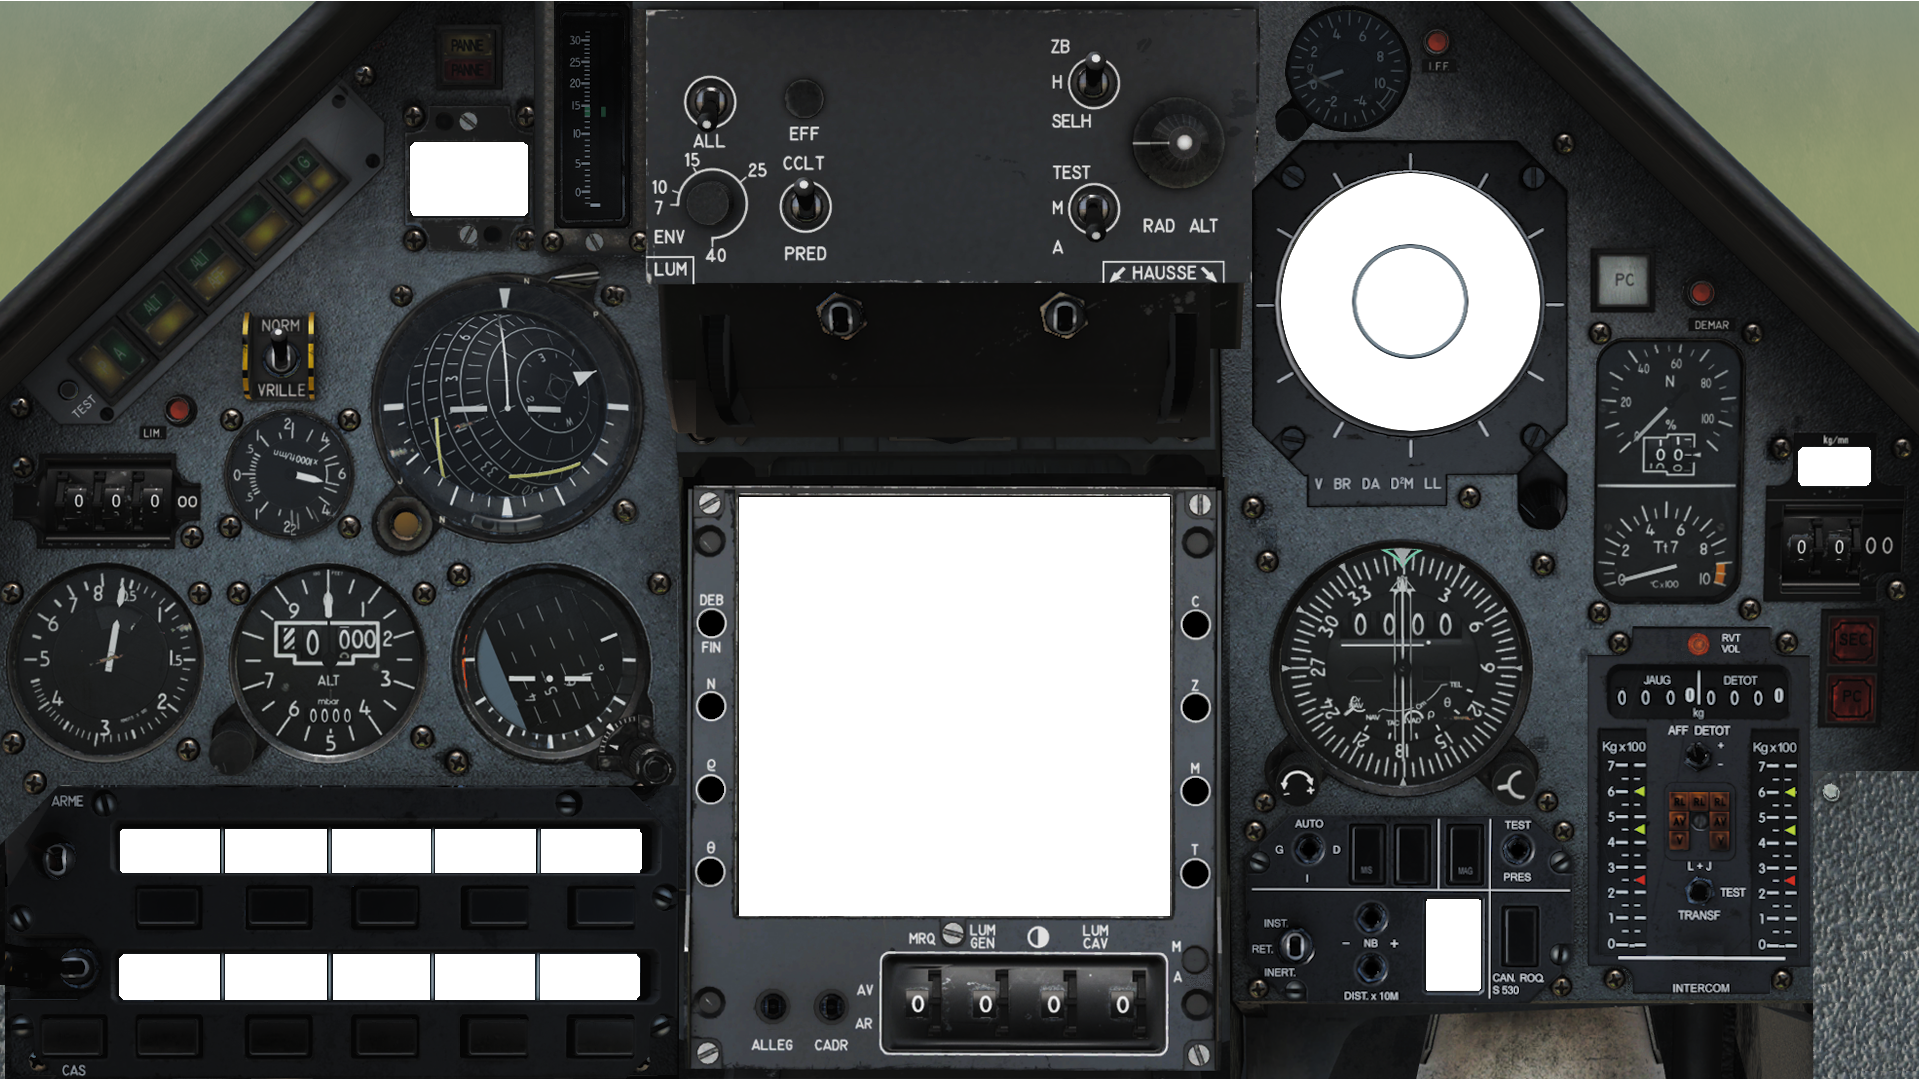
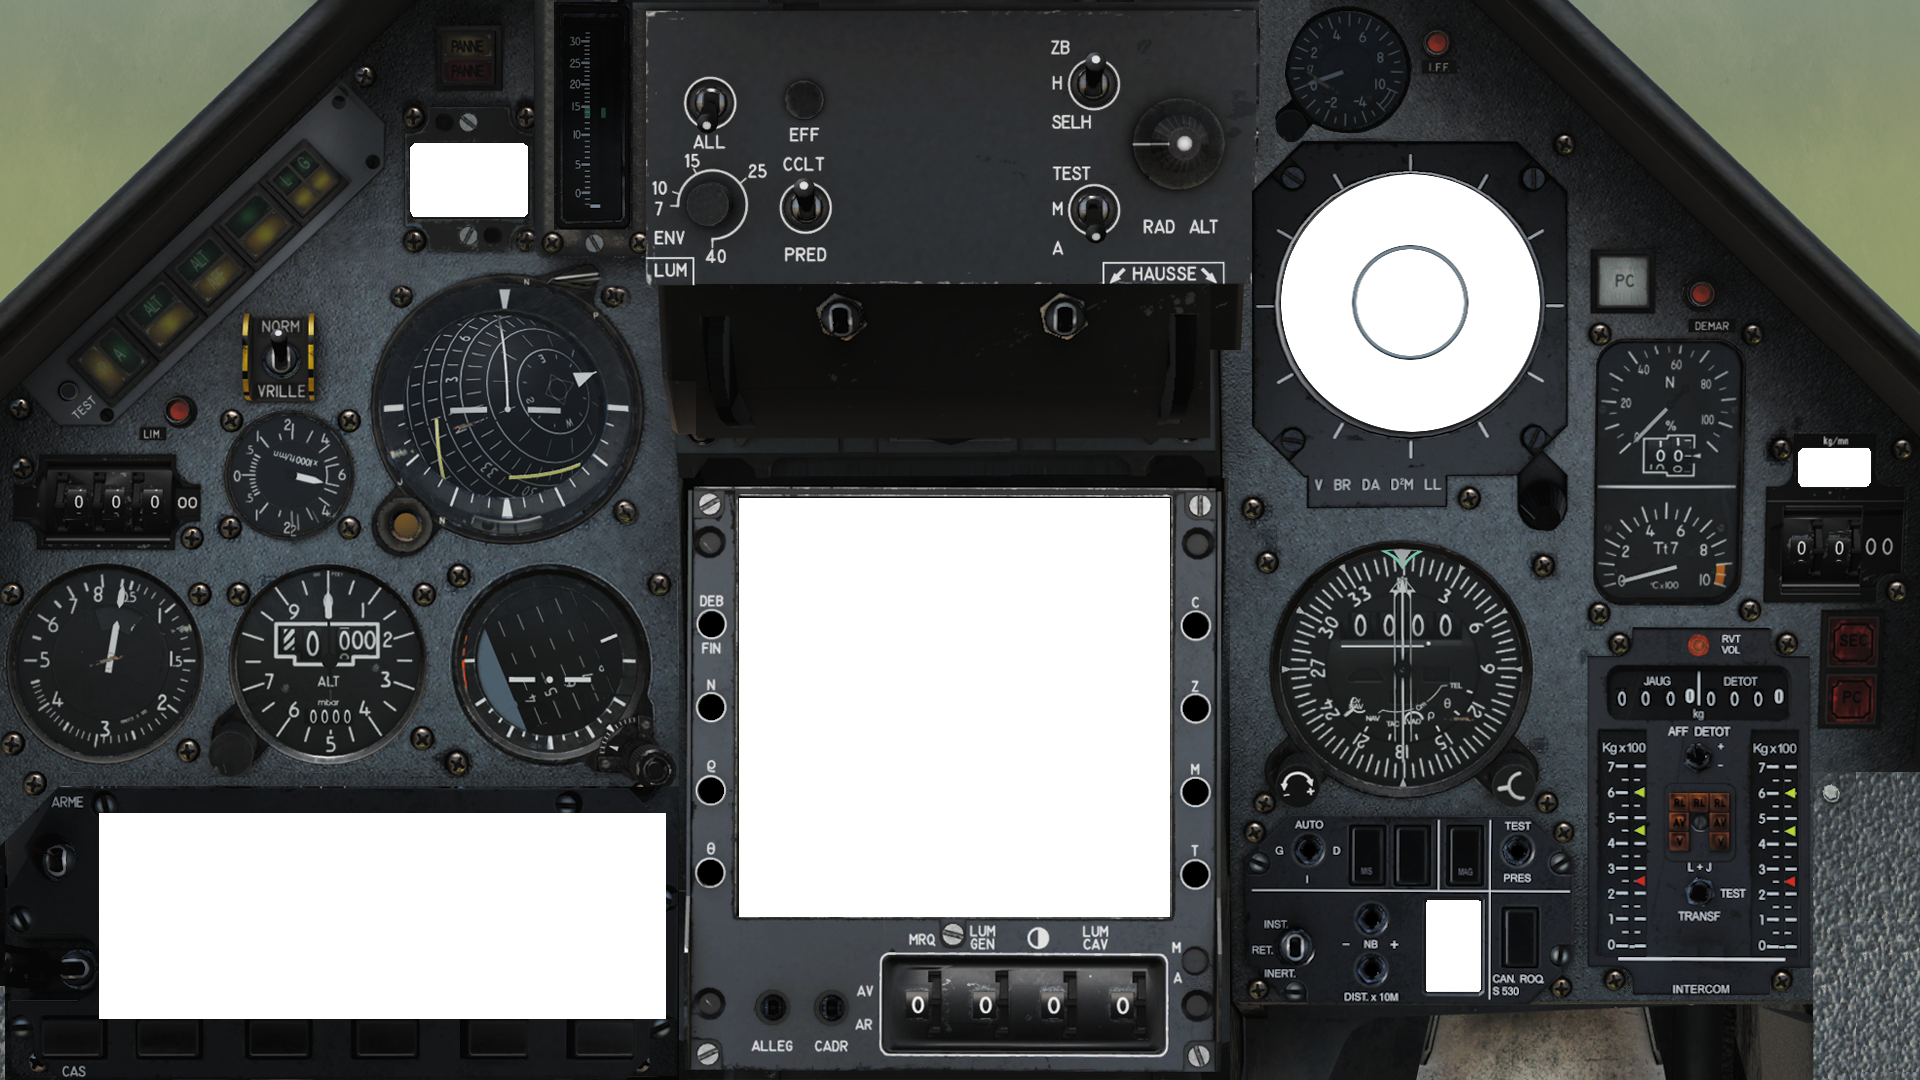
Added the PCA Panel

diff --git a/Helios/Interfaces/DCS/M2000C/M2000CInterface.cs b/Helios/Interfaces/DCS/M2000C/M2000CInterface.cs
@@ -209,23 +209,6 @@ namespace GadrocsWorkshop.Helios.Interfaces.DCS.M2000C
             AddFunction(new FlagValue(this, "186", "Indicators", "Indicators 186", "IFF, MIP, Acc"));
             AddFunction(new FlagValue(this, "187", "Indicators", "Indicators 187", "LED green, ADI"));
             AddFunction(new FlagValue(this, "188", "Indicators", "Indicators 188", "LED green, ADI"));
-            AddFunction(new FlagValue(this, "236", "Indicators", "Indicators 236", "Weapon panel 1. line B1 S"));
-            AddFunction(new FlagValue(this, "238", "Indicators", "Indicators 238", "Weapon panel 1. line B2 S"));
-            AddFunction(new FlagValue(this, "240", "Indicators", "Indicators 240", "Weapon panel 1. line B3 S"));
-            AddFunction(new FlagValue(this, "242", "Indicators", "Indicators 242", "Weapon panel 1. line B4 S"));
-            AddFunction(new FlagValue(this, "244", "Indicators", "Indicators 244", "Weapon panel 1. line B5 S"));
-            AddFunction(new FlagValue(this, "251", "Indicators", "Indicators 251", "Weapon panel 2. line B1 S"));
-            AddFunction(new FlagValue(this, "252", "Indicators", "Indicators 252", "Weapon panel 2. line B1 P"));
-            AddFunction(new FlagValue(this, "254", "Indicators", "Indicators 254", "Weapon panel 2. line B2 S"));
-            AddFunction(new FlagValue(this, "255", "Indicators", "Indicators 255", "Weapon panel 2. line B2 P"));
-            AddFunction(new FlagValue(this, "257", "Indicators", "Indicators 257", "Weapon panel 2. line B3 S"));
-            AddFunction(new FlagValue(this, "258", "Indicators", "Indicators 258", "Weapon panel 2. line B3 P"));
-            AddFunction(new FlagValue(this, "260", "Indicators", "Indicators 260", "Weapon panel 2. line B4 S"));
-            AddFunction(new FlagValue(this, "261", "Indicators", "Indicators 261", "Weapon panel 2. line B4 P"));
-            AddFunction(new FlagValue(this, "263", "Indicators", "Indicators 263", "Weapon panel 2. line B5 S"));
-            AddFunction(new FlagValue(this, "264", "Indicators", "Indicators 264", "Weapon panel 2. line B5 P"));
-            AddFunction(new FlagValue(this, "246", "Indicators", "Indicators 246", "button KL1 light"));
-            AddFunction(new FlagValue(this, "247", "Indicators", "Indicators 247", "button KL2 light"));
             AddFunction(new FlagValue(this, "321", "Indicators", "Indicators 321", "ADI ILS light"));
             AddFunction(new FlagValue(this, "283", "Indicators", "Indicators 283", "AUTOPILOT P"));
             AddFunction(new FlagValue(this, "284", "Indicators", "Indicators 284", "AUTOPILOT A"));
@@ -369,24 +352,48 @@ namespace GadrocsWorkshop.Helios.Interfaces.DCS.M2000C
 
             #endregion
             #region  PCA/PPA
-            AddFunction(new PushButton(this, PCA_PPA, "3234", "234", "PCA/PPA", "Master Arm Switch"));    // elements["PTN_234"] = default_2_position_tumb(_("Master Arm Switch"), devices.PCA_PPA, device_commands.Button_234, 234)
-            AddFunction(new PushButton(this, PCA_PPA, "3248", "248", "PCA/PPA", "Selective Jettison Switch Cover"));    // elements["PTN_248"] = default_2_position_tumb(_("Selective Jettison Switch Cover"), devices.PCA_PPA, device_commands.Button_248, 248)
-            AddFunction(new PushButton(this, PCA_PPA, "3249", "249", "PCA/PPA", "Selective Jettison Switch"));    // elements["PTN_249"] = default_2_position_tumb(_("Selective Jettison Switch"), devices.PCA_PPA, device_commands.Button_249, 249)
+            AddFunction(new Switch(this, PCA_PPA, "234", new SwitchPosition[] {
+                new SwitchPosition("0.0", "OFF", "3234"), new SwitchPosition("1.0", "ON", "3234")
+                }, "PCA Panel", "Master Arm Switch", "%0.1f"));
+            AddFunction(new Switch(this, PCA_PPA, "248", new SwitchPosition[] {
+                new SwitchPosition("0.0", "CLOSE", "3248"), new SwitchPosition("1.0", "OPEN", "3248")
+                }, "PCA Panel", "Selective Jettison Switch Guard", "%0.1f"));
+            AddFunction(new Switch(this, PCA_PPA, "249", new SwitchPosition[] {
+                new SwitchPosition("1.0", "OFF", "3249"), new SwitchPosition("0.0", "ON", "3249")
+                }, "PCA Panel", "Selective Jettison Switch", "%0.1f"));
                                                                                                                   // 
-            AddFunction(new PushButton(this, PCA_PPA, "3235", "235", "PCA/PPA", "PCA Button 1"));    // elements["PTN_235"] = default_button(_("PCA Button 1"), devices.PCA_PPA, device_commands.Button_235, 235, 0, 1)
-            AddFunction(new PushButton(this, PCA_PPA, "3237", "237", "PCA/PPA", "PCA Button 2"));    // elements["PTN_237"] = default_button(_("PCA Button 2"), devices.PCA_PPA, device_commands.Button_237, 237, 0, 1)
-            AddFunction(new PushButton(this, PCA_PPA, "3239", "239", "PCA/PPA", "PCA Button 3"));    // elements["PTN_239"] = default_button(_("PCA Button 3"), devices.PCA_PPA, device_commands.Button_239, 239, 0, 1)
-            AddFunction(new PushButton(this, PCA_PPA, "3241", "241", "PCA/PPA", "PCA Button 4"));    // elements["PTN_241"] = default_button(_("PCA Button 4"), devices.PCA_PPA, device_commands.Button_241, 241, 0, 1)
-            AddFunction(new PushButton(this, PCA_PPA, "3243", "243", "PCA/PPA", "PCA Button 5"));    // elements["PTN_243"] = default_button(_("PCA Button 5"), devices.PCA_PPA, device_commands.Button_243, 243, 0, 1)
+            AddFunction(new PushButton(this, PCA_PPA, "3235", "235", "PCA Panel", "Targeting Mode Selection"));    // elements["PTN_235"] = default_button(_("PCA Button 1"), devices.PCA_PPA, device_commands.Button_235, 235, 0, 1)
+            AddFunction(new PushButton(this, PCA_PPA, "3237", "237", "PCA Panel", "Master Mode Selection"));    // elements["PTN_237"] = default_button(_("PCA Button 2"), devices.PCA_PPA, device_commands.Button_237, 237, 0, 1)
+            AddFunction(new PushButton(this, PCA_PPA, "3239", "239", "PCA Panel", "Approach Mode Selection"));    // elements["PTN_239"] = default_button(_("PCA Button 3"), devices.PCA_PPA, device_commands.Button_239, 239, 0, 1)
+            AddFunction(new PushButton(this, PCA_PPA, "3241", "241", "PCA Panel", "Fligt Plan Route Selection"));    // elements["PTN_241"] = default_button(_("PCA Button 4"), devices.PCA_PPA, device_commands.Button_241, 241, 0, 1)
+            AddFunction(new PushButton(this, PCA_PPA, "3243", "243", "PCA Panel", "INS Calibration"));    // elements["PTN_243"] = default_button(_("PCA Button 5"), devices.PCA_PPA, device_commands.Button_243, 243, 0, 1)
                                                                                                      // 
-            AddFunction(new PushButton(this, PCA_PPA, "3245", "245", "PCA/PPA", "Gun Mode Button"));    // elements["PTN_245"] = default_button(_("Gun Mode Button"), devices.PCA_PPA, device_commands.Button_245, 245, 0, 1)
+            AddFunction(new PushButton(this, PCA_PPA, "3245", "245", "PCA Panel", "Gun Mode Selector"));    // elements["PTN_245"] = default_button(_("Gun Mode Button"), devices.PCA_PPA, device_commands.Button_245, 245, 0, 1)
                                                                                                         // 
-            AddFunction(new PushButton(this, PCA_PPA, "3250", "250", "PCA/PPA", "Weapons Selector Button 1"));    // elements["PTN_250"] = default_button(_("Weapons Selector Button 1"), devices.PCA_PPA, device_commands.Button_250, 250, 0, 1)
-            AddFunction(new PushButton(this, PCA_PPA, "3253", "253", "PCA/PPA", "Weapons Selector Button 2"));    // elements["PTN_253"] = default_button(_("Weapons Selector Button 2"), devices.PCA_PPA, device_commands.Button_253, 253, 0, 1)
-            AddFunction(new PushButton(this, PCA_PPA, "3256", "256", "PCA/PPA", "Weapons Selector Button 3"));    // elements["PTN_256"] = default_button(_("Weapons Selector Button 3"), devices.PCA_PPA, device_commands.Button_256, 256, 0, 1)
-            AddFunction(new PushButton(this, PCA_PPA, "3259", "259", "PCA/PPA", "Weapons Selector Button 4"));    // elements["PTN_259"] = default_button(_("Weapons Selector Button 4"), devices.PCA_PPA, device_commands.Button_259, 259, 0, 1)
-            AddFunction(new PushButton(this, PCA_PPA, "3262", "262", "PCA/PPA", "Weapons Selector Button 5"));    // elements["PTN_262"] = default_button(_("Weapons Selector Button 5"), devices.PCA_PPA, device_commands.Button_262, 262, 0, 1)
-                                                                                                                  // 
+            AddFunction(new PushButton(this, PCA_PPA, "3250", "250", "PCA Panel", "Weapon Store Selector 1"));    // elements["PTN_250"] = default_button(_("Weapons Selector Button 1"), devices.PCA_PPA, device_commands.Button_250, 250, 0, 1)
+            AddFunction(new PushButton(this, PCA_PPA, "3253", "253", "PCA Panel", "Weapon Store Selector 2"));    // elements["PTN_253"] = default_button(_("Weapons Selector Button 2"), devices.PCA_PPA, device_commands.Button_253, 253, 0, 1)
+            AddFunction(new PushButton(this, PCA_PPA, "3256", "256", "PCA Panel", "Weapon Store Selector 3"));    // elements["PTN_256"] = default_button(_("Weapons Selector Button 3"), devices.PCA_PPA, device_commands.Button_256, 256, 0, 1)
+            AddFunction(new PushButton(this, PCA_PPA, "3259", "259", "PCA Panel", "Weapon Store Selector 4"));    // elements["PTN_259"] = default_button(_("Weapons Selector Button 4"), devices.PCA_PPA, device_commands.Button_259, 259, 0, 1)
+            AddFunction(new PushButton(this, PCA_PPA, "3262", "262", "PCA Panel", "Weapon Store Selector 5"));    // elements["PTN_262"] = default_button(_("Weapons Selector Button 5"), devices.PCA_PPA, device_commands.Button_262, 262, 0, 1)
+
+            AddFunction(new FlagValue(this, "236", "PCA Panel", "TMS S", "TMS S"));
+            AddFunction(new FlagValue(this, "238", "PCA Panel", "MMS", "MMS"));
+            AddFunction(new FlagValue(this, "240", "PCA Panel", "AMS", "AMS"));
+            AddFunction(new FlagValue(this, "242", "PCA Panel", "FPRS", "FPRS"));
+            AddFunction(new FlagValue(this, "244", "PCA Panel", "INS C", "INS C"));
+            AddFunction(new FlagValue(this, "251", "PCA Panel", "WSS1 S", "WSS1 S"));
+            AddFunction(new FlagValue(this, "252", "PCA Panel", "WSS1 P", "WSS1 P"));
+            AddFunction(new FlagValue(this, "254", "PCA Panel", "WSS2 S", "WSS2 S"));
+            AddFunction(new FlagValue(this, "255", "PCA Panel", "WSS2 P", "WSS2 P"));
+            AddFunction(new FlagValue(this, "257", "PCA Panel", "WSS3 S", "WSS3 S"));
+            AddFunction(new FlagValue(this, "258", "PCA Panel", "WSS3 P", "WSS3 P"));
+            AddFunction(new FlagValue(this, "260", "PCA Panel", "WSS4 S", "WSS4 S"));
+            AddFunction(new FlagValue(this, "261", "PCA Panel", "WSS4 P", "WSS4 P"));
+            AddFunction(new FlagValue(this, "263", "PCA Panel", "WSS5 S", "WSS5 S"));
+            AddFunction(new FlagValue(this, "264", "PCA Panel", "WSS5 P", "WSS5 P"));
+            AddFunction(new FlagValue(this, "246", "PCA Panel", "KL1", "KL1"));
+            AddFunction(new FlagValue(this, "247", "PCA Panel", "KL2", "KL2"));
+            // 
             AddFunction(new PushButton(this, PCA_PPA, "3266", "266", "PPA Panel", "S530 Missile Enabler Button"));    // elements["PTN_266"] = default_button(_("S530 Standby"), devices.PCA_PPA, device_commands.Button_266, 266, 0, 1)
             AddFunction(new PushButton(this, PCA_PPA, "3269", "269", "PPA Panel", "Missile Fire Mode Selector"));    // elements["PTN_269"] = default_button(_("AUTO/MAN Button"), devices.PCA_PPA, device_commands.Button_269, 269, 0, 1)
             AddFunction(new PushButton(this, PCA_PPA, "3272", "272", "PPA Panel", "Magic II Missile Enabler Button"));    // elements["PTN_272"] = default_button(_("MAGIC Standby"), devices.PCA_PPA, device_commands.Button_272, 272, 0, 1)

diff --git a/Helios/Gauges/M2000C/PCAPanel/PCA_Panel.cs b/Helios/Gauges/M2000C/PCAPanel/PCA_Panel.cs
@@ -1,0 +1,185 @@
+//  Copyright 2014 Craig Courtney
+//    
+//  Helios is free software: you can redistribute it and/or modify
+//  it under the terms of the GNU General Public License as published by
+//  the Free Software Foundation, either version 3 of the License, or
+//  (at your option) any later version.
+//
+//  Helios is distributed in the hope that it will be useful,
+//  but WITHOUT ANY WARRANTY; without even the implied warranty of
+//  MERCHANTABILITY or FITNESS FOR A PARTICULAR PURPOSE.  See the
+//  GNU General Public License for more details.
+//
+//  You should have received a copy of the GNU General Public License
+//  along with this program.  If not, see <http://www.gnu.org/licenses/>.
+
+namespace GadrocsWorkshop.Helios.Gauges.M2000C
+{
+    using GadrocsWorkshop.Helios.ComponentModel;
+    using GadrocsWorkshop.Helios.Controls;
+    using System;
+    using System.Globalization;
+    using System.Windows;
+    using System.Windows.Media;
+
+    [HeliosControl("HELIOS.M2000C.PCA_PANEL", "PCA Panel", "M2000C Gauges", typeof(M2000CDeviceRenderer))]
+    class M2000C_PCAPanel : M2000CDevice
+    {
+        private static readonly Rect SCREEN_RECT = new Rect(0, 0, 690, 300);
+        private string _interfaceDeviceName = "PCA Panel";
+        private Rect _scaledScreenRect = SCREEN_RECT;
+
+        public M2000C_PCAPanel()
+            : base("PCA Panel", new Size(690, 300))
+        {
+            int row0 = 104, row1 = 236;
+            int column0 = 37, column1 = 132, column2 = 245, column3 = 355, column4 = 466, column5 = 575;
+            int offsetXg = 20, offsetXc = 32, offsetXd = 47, offsetY = 20;
+            AddPushButton("Targeting Mode Selection", new Point(column1, row0));
+            AddPushButton("Master Mode Selection", new Point(column2, row0));
+            AddPushButton("Approach Mode Selection", new Point(column3, row0));
+            AddPushButton("Fligt Plan Route Selection", new Point(column4, row0));
+            AddPushButton("INS Calibration", new Point(column5, row0));
+            AddPushButton("Gun Mode Selector", new Point(column0, row1));
+            AddPushButton("Weapon Store Selector 1", new Point(column1, row1));
+            AddPushButton("Weapon Store Selector 2", new Point(column2, row1));
+            AddPushButton("Weapon Store Selector 3", new Point(column3, row1));
+            AddPushButton("Weapon Store Selector 4", new Point(column4, row1));
+            AddPushButton("Weapon Store Selector 5", new Point(column5, row1));
+
+            AddIndicator("TMS S", "s", new Point(column1 + offsetXc, row0 + offsetY), new Size(5, 9));
+            AddIndicator("MMS", "s", new Point(column2 + offsetXc, row0 + offsetY), new Size(5, 9));
+            AddIndicator("AMS", "s", new Point(column3 + offsetXc, row0 + offsetY), new Size(5, 9));
+            AddIndicator("FPRS", "s", new Point(column4 + offsetXc, row0 + offsetY), new Size(5, 9));
+            AddIndicator("INS C", "s", new Point(column5 + offsetXc, row0 + offsetY), new Size(5, 9));
+            AddIndicator("KL1", "kl1", new Point(column0 + offsetXg, row1 + offsetY), new Size(16, 9));
+            AddIndicator("KL2", "kl2", new Point(column0 + offsetXd, row1 + offsetY), new Size(16, 9));
+            AddIndicator("WSS1 S", "s", new Point(column1 + offsetXg, row1 + offsetY), new Size(5, 9));
+            AddIndicator("WSS2 S", "s", new Point(column2 + offsetXg, row1 + offsetY), new Size(5, 9));
+            AddIndicator("WSS3 S", "s", new Point(column3 + offsetXg, row1 + offsetY), new Size(5, 9));
+            AddIndicator("WSS4 S", "s", new Point(column4 + offsetXg, row1 + offsetY), new Size(5, 9));
+            AddIndicator("WSS5 S", "s", new Point(column5 + offsetXg, row1 + offsetY), new Size(5, 9));
+            AddIndicator("WSS1 P", "p", new Point(column1 + offsetXd, row1 + offsetY), new Size(5, 9));
+            AddIndicator("WSS2 P", "p", new Point(column2 + offsetXd, row1 + offsetY), new Size(5, 9));
+            AddIndicator("WSS3 P", "p", new Point(column3 + offsetXd, row1 + offsetY), new Size(5, 9));
+            AddIndicator("WSS4 P", "P", new Point(column4 + offsetXd, row1 + offsetY), new Size(5, 9));
+            AddIndicator("WSS5 P", "p", new Point(column5 + offsetXd, row1 + offsetY), new Size(5, 9));
+
+            AddSwitch("Master Arm Switch", "red-", new Point(32, 28), new Size(30, 90), ToggleSwitchPosition.Two, ToggleSwitchType.OnOn, false);
+            ToggleSwitch selectiveJettisonSwitch = AddSwitch("Selective Jettison Switch", "long-black-", new Point(36, 170), new Size(29, 60), ToggleSwitchPosition.Two, ToggleSwitchType.OnOn, true);
+            AddGuard("Selective Jettison Switch Guard", "guard-", new Point(5, 160), new Size(100, 50), ToggleSwitchPosition.Two, ToggleSwitchType.OnOn,
+                new NonClickableZone[] { new NonClickableZone(new Rect(30, 0, 120, 63), ToggleSwitchPosition.Two, selectiveJettisonSwitch, ToggleSwitchPosition.Two) });
+        }
+
+        #region Properties
+
+        public override string BezelImage
+        {
+            get { return "{M2000C}/Images/PCAPanel/pca-panel.png"; }
+        }
+
+        #endregion
+
+        protected override void OnPropertyChanged(PropertyNotificationEventArgs args)
+        {
+            if (args.PropertyName.Equals("Width") || args.PropertyName.Equals("Height"))
+            {
+                double scaleX = Width / NativeSize.Width;
+                double scaleY = Height / NativeSize.Height;
+                _scaledScreenRect.Scale(scaleX, scaleY);
+            }
+            base.OnPropertyChanged(args);
+        }
+
+        private void AddPushButton(string name, Point posn)
+        {
+            AddButton(name: name,
+                posn: posn,
+                size: new Size(65, 40),
+                image: "{M2000C}/Images/PCAPanel/pca-button.png",
+                pushedImage: "{M2000C}/Images/PCAPanel/pca-button.png",
+                buttonText: "",
+                interfaceDeviceName: _interfaceDeviceName,
+                interfaceElementName: name,
+                fromCenter: false);
+        }
+
+        private void AddIndicator(string name, string imagePrefix, Point posn, Size size)
+        {
+            AddIndicator(
+                name: name,
+                posn: posn,
+                size: size,
+                onImage: "{M2000C}/Images/PCAPanel/" + imagePrefix + "-on.png",
+                offImage: "{M2000C}/Images/PCAPanel/void.png", //empty picture to permit the indicator to work because I’ve nothing to display when off
+                onTextColor: Color.FromArgb(0xff, 0x7e, 0xde, 0x72), //don’t need it because not using text
+                offTextColor: Color.FromArgb(0xff, 0x7e, 0xde, 0x72), //don’t need it because not using text
+                font: "", //don’t need it because not using text
+                vertical: false, //don’t need it because not using text
+                interfaceDeviceName: _interfaceDeviceName,
+                interfaceElementName: name,
+                fromCenter: true,
+                withText: false); //added in Composite Visual as an optional value with a default value set to true
+        }
+
+        private ToggleSwitch AddSwitch(string name, string imagePrefix, Point posn, Size size, ToggleSwitchPosition defaultPosition, ToggleSwitchType defaultType, bool horizontal)
+        {
+            return AddToggleSwitch(name: name,
+                posn: posn,
+                size: size,
+                defaultPosition: defaultPosition,
+                positionOneImage: "{M2000C}/Images/Switches/" + imagePrefix + "down.png",
+                positionTwoImage: "{M2000C}/Images/Switches/" + imagePrefix + "up.png",
+                defaultType: defaultType,
+                interfaceDeviceName: _interfaceDeviceName,
+                interfaceElementName: name,
+                horizontal: horizontal,
+                horizontalRender: horizontal,
+                nonClickableZones: null,
+                fromCenter: false);
+        }
+
+        private void AddGuard(string name, string imagePrefix, Point posn, Size size, ToggleSwitchPosition defaultPosition,
+            ToggleSwitchType defaultType, NonClickableZone[] nonClickableZones)
+        {
+            AddToggleSwitch(name: name,
+                posn: posn,
+                size: size,
+                defaultPosition: defaultPosition,
+                positionOneImage: "{M2000C}/Images/PCAPanel/" + imagePrefix + "down.png",
+                positionTwoImage: "{M2000C}/Images/PCAPanel/" + imagePrefix + "up.png",
+                defaultType: defaultType,
+                interfaceDeviceName: _interfaceDeviceName,
+                interfaceElementName: name,
+                horizontal: false,
+                horizontalRender: false,
+                nonClickableZones: nonClickableZones,
+                fromCenter: false);
+        }
+
+        public override bool HitTest(Point location)
+        {
+            if (_scaledScreenRect.Contains(location))
+            {
+                return false;
+            }
+
+            return true;
+        }
+
+        public override void MouseDown(Point location)
+        {
+            // No-Op
+        }
+
+        public override void MouseDrag(Point location)
+        {
+            // No-Op
+        }
+
+        public override void MouseUp(Point location)
+        {
+            // No-Op
+        }
+    }
+}
